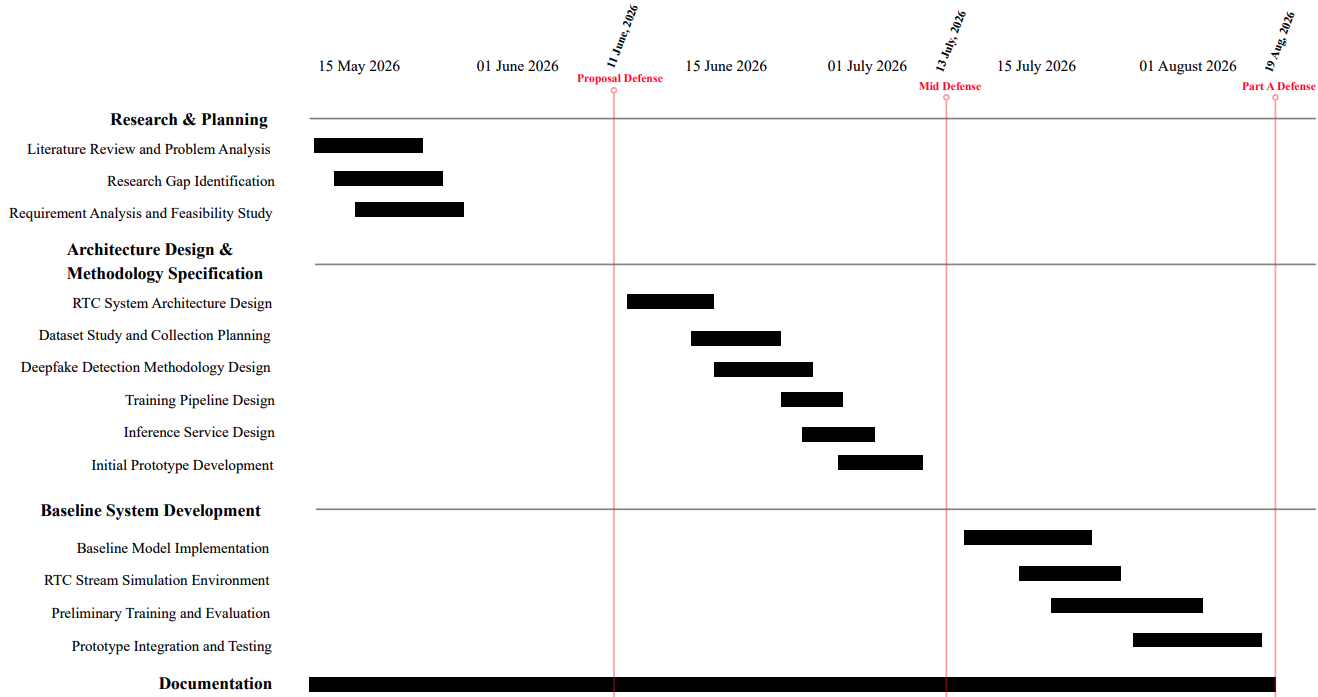
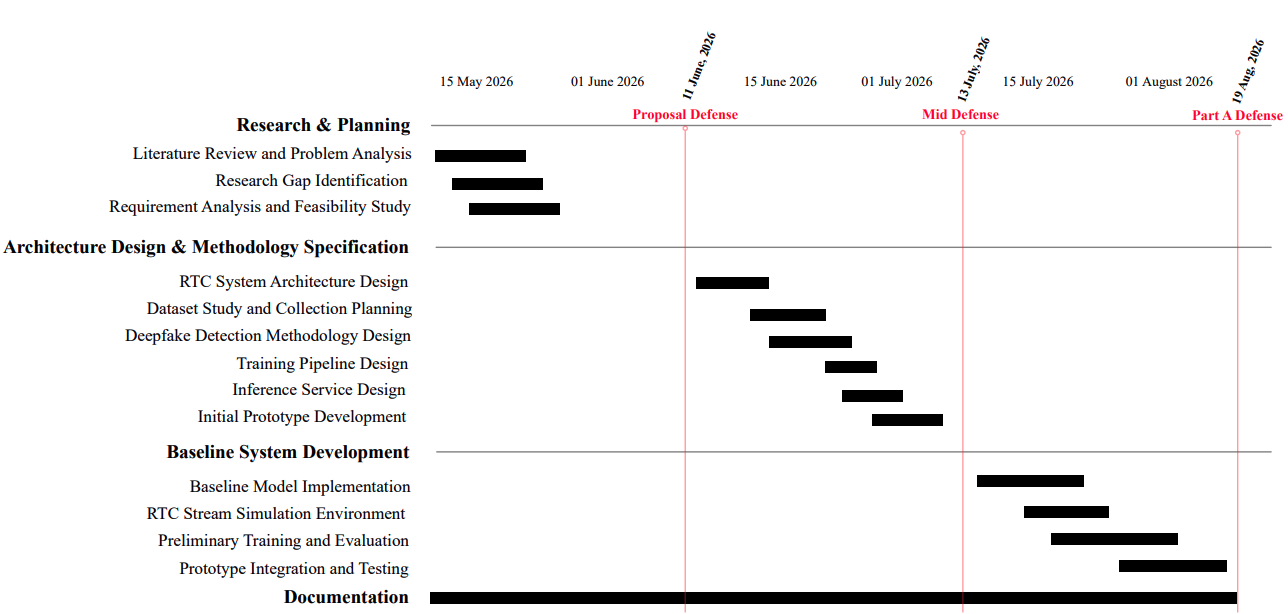
objective change, gantt chart

Changed region(s): [[0.0, 0.0, 1.0, 1.0], [0.2484, 0.0619, 0.3106, 0.1238]]

diff --git a/proposal-report/sections/introduction/objectives.tex b/proposal-report/sections/introduction/objectives.tex
@@ -2,6 +2,6 @@
 
 The objectives of this project are:
 \begin{itemize}
-    \item To develop a robust real-time system capable of detecting synthetic speech within degraded VoIP communication environments
-    \item To evaluate the impact of communication degradations such as codec compression, packet loss, and transmission noise on the performance and latency of synthetic speech detection models
+    \item To develop a real-time system for detecting synthetic speech in degraded VoIP environments
+    \item To evaluate the effects of codec compression, packet loss, and noise on detection performance and latency
 \end{itemize}

diff --git a/proposal-report/sections/appendices/project_timeline.tex b/proposal-report/sections/appendices/project_timeline.tex
@@ -12,7 +12,7 @@
 \begin{table}[H]
 \centering
 \rotatebox{90}{%
-  \begin{minipage}{0.85\textheight}
+  \begin{minipage}{0.95\textheight}
   \centering
   \caption{Expected Project Timeline -- Part A}
   \vspace{0.25cm}
